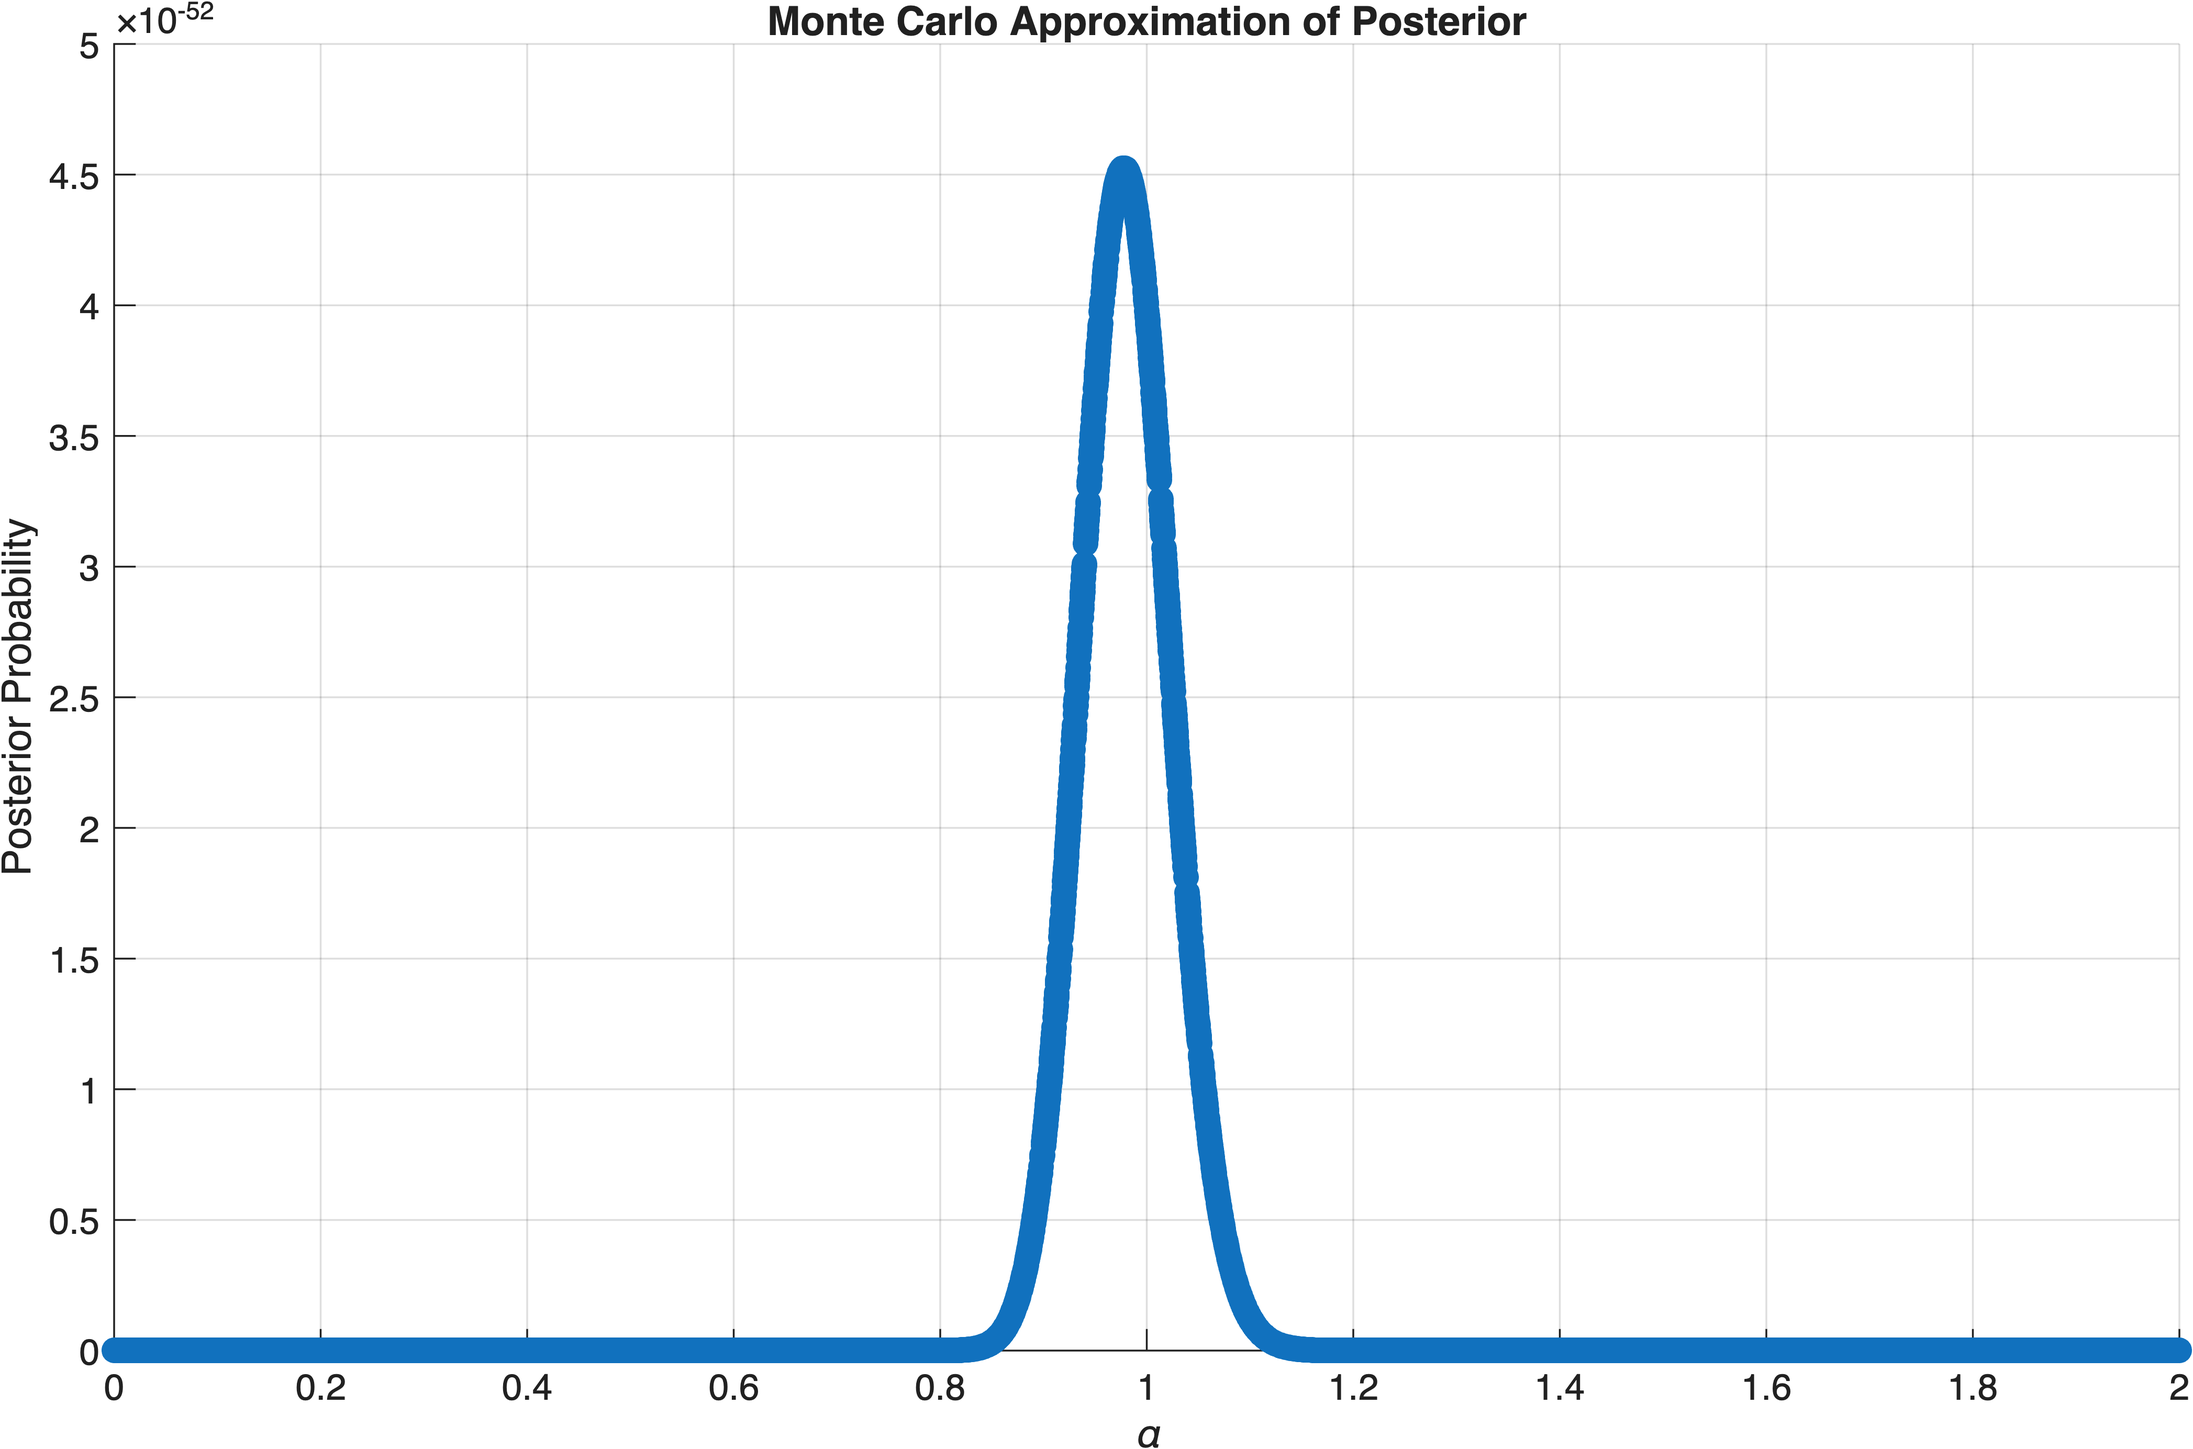
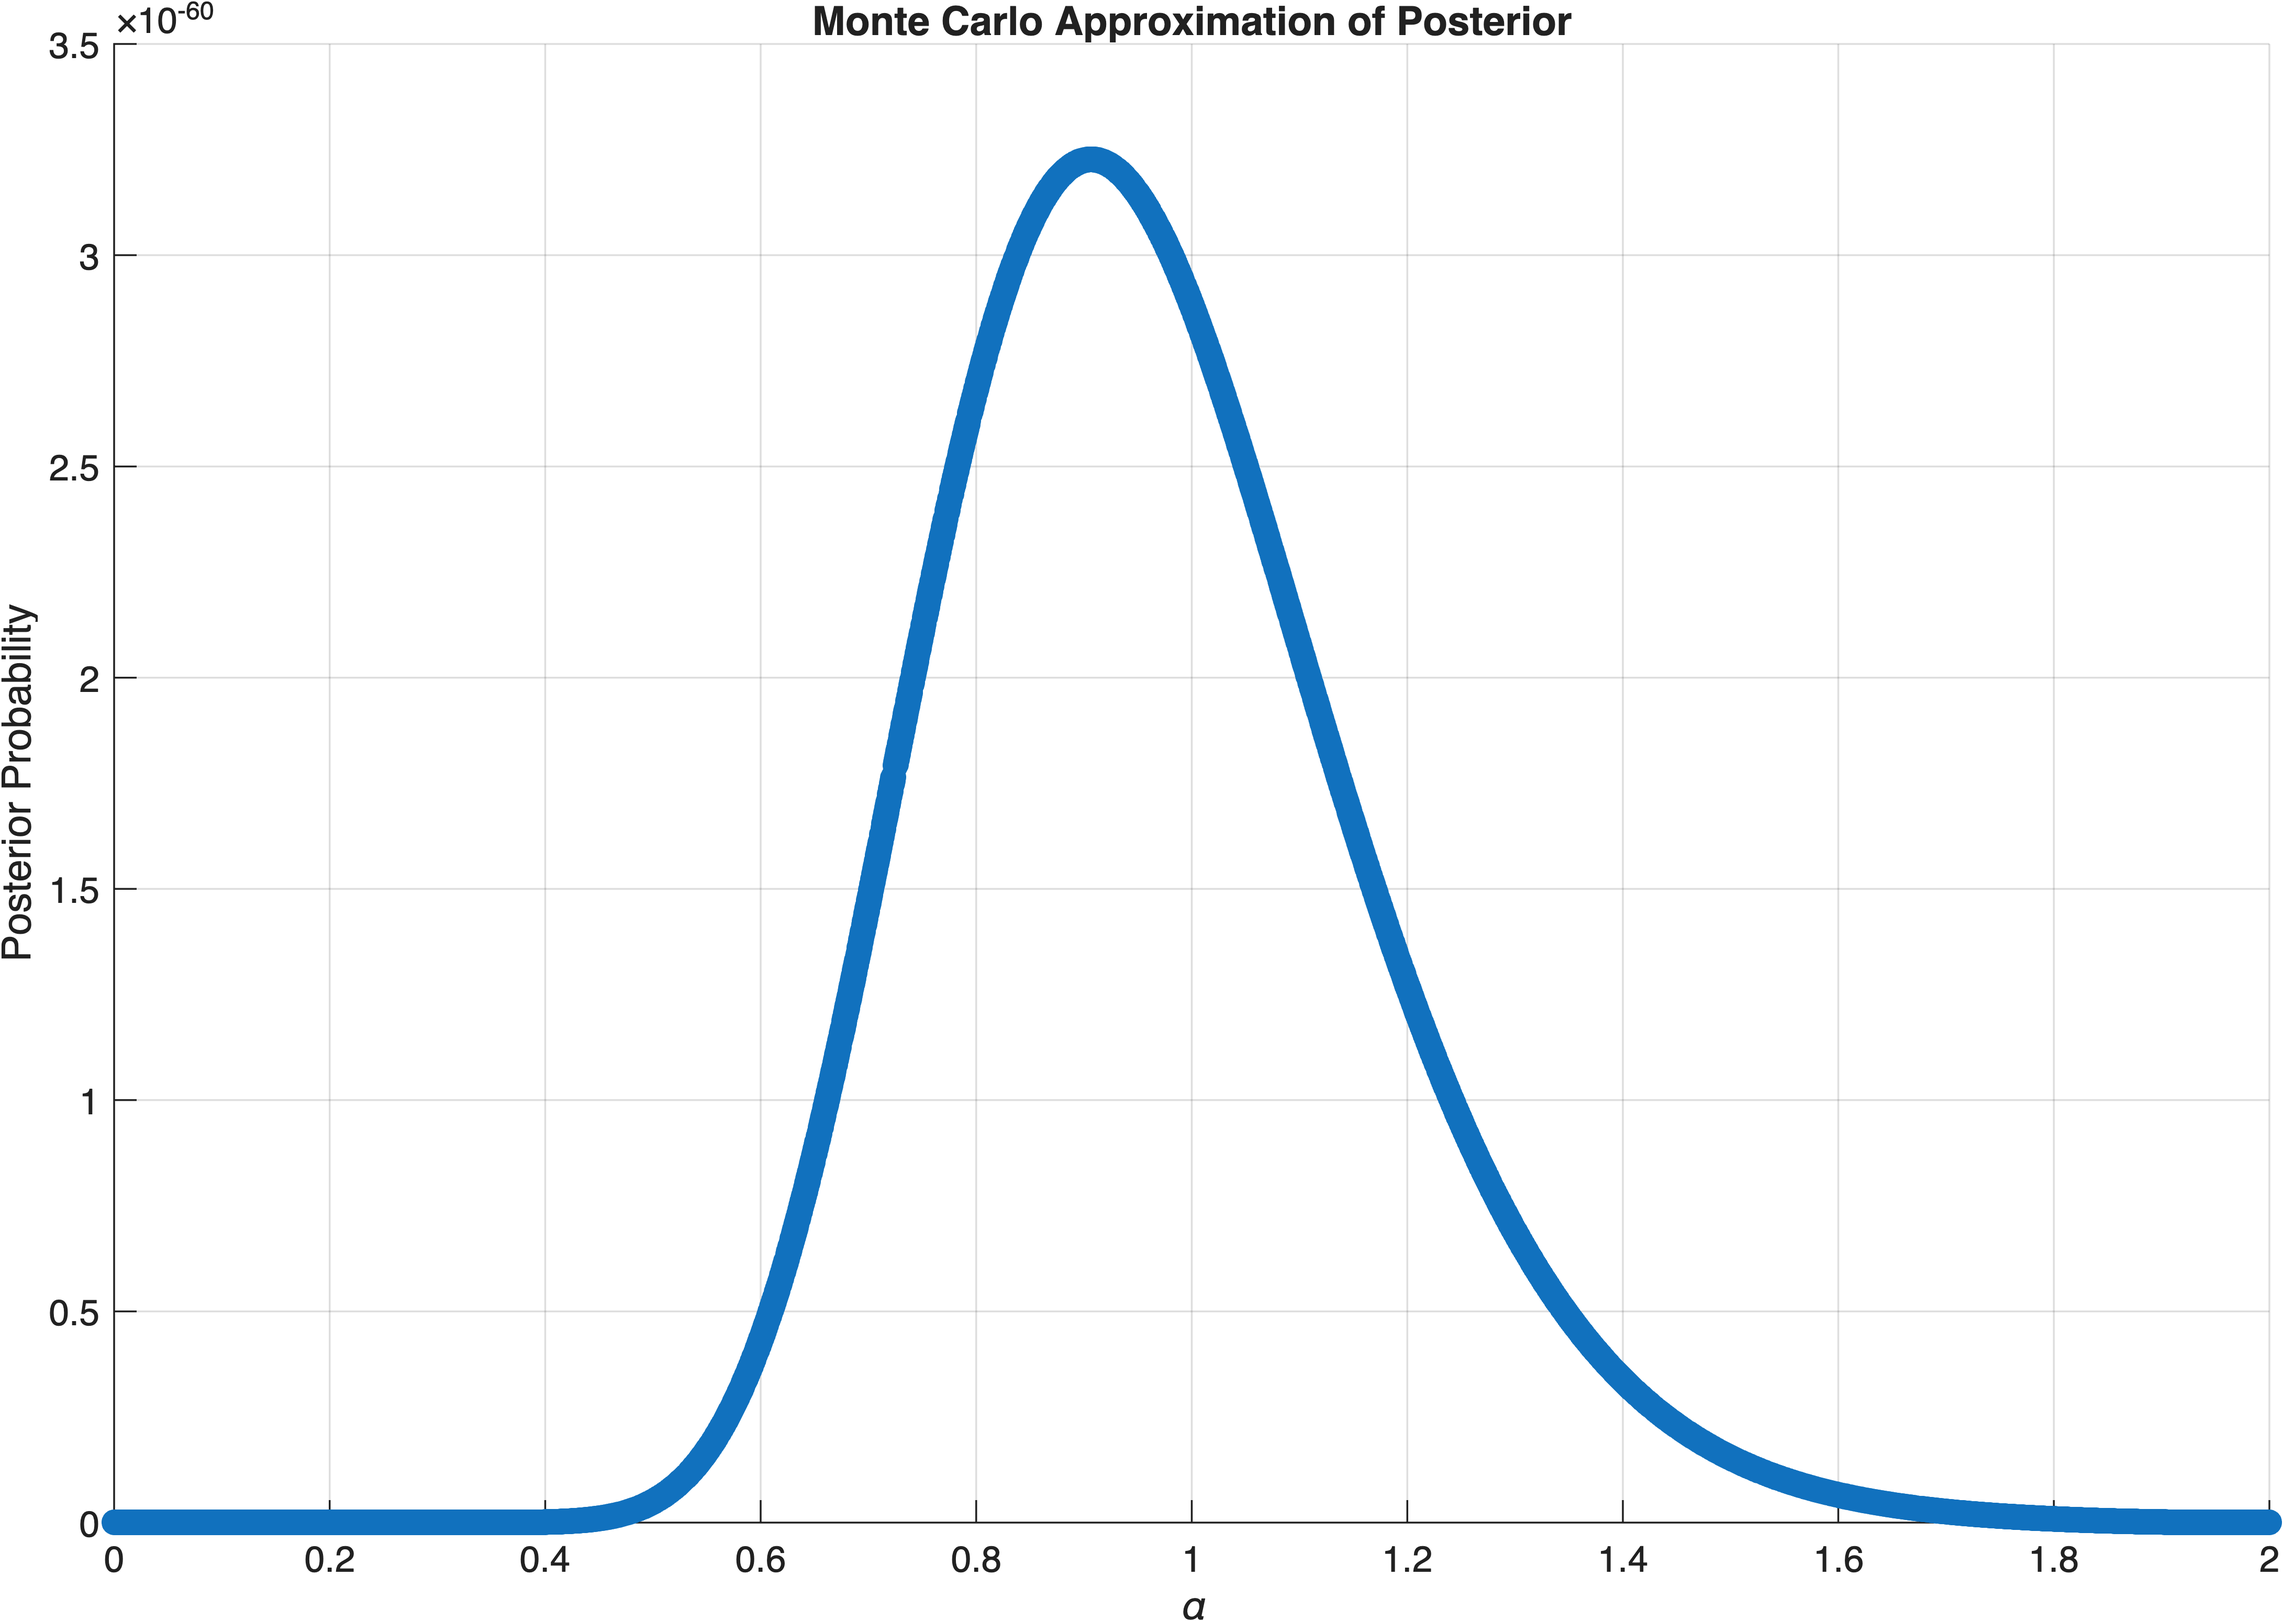
working code, good plot

diff --git a/driver.m b/driver.m
@@ -90,7 +90,7 @@ post_sorted = post(sort_idx);
 % Numerical integral via trapezoid rule
 Z = trapz(alpha_sorted, post_sorted);  % normalizing constant
 post_normalized = post_sorted / Z;     
-post_normalized = post_normalized / 10;
+post_normalized = post_normalized;
 
 % MAP estimate
 [~, idx_max] = max(post_normalized);
